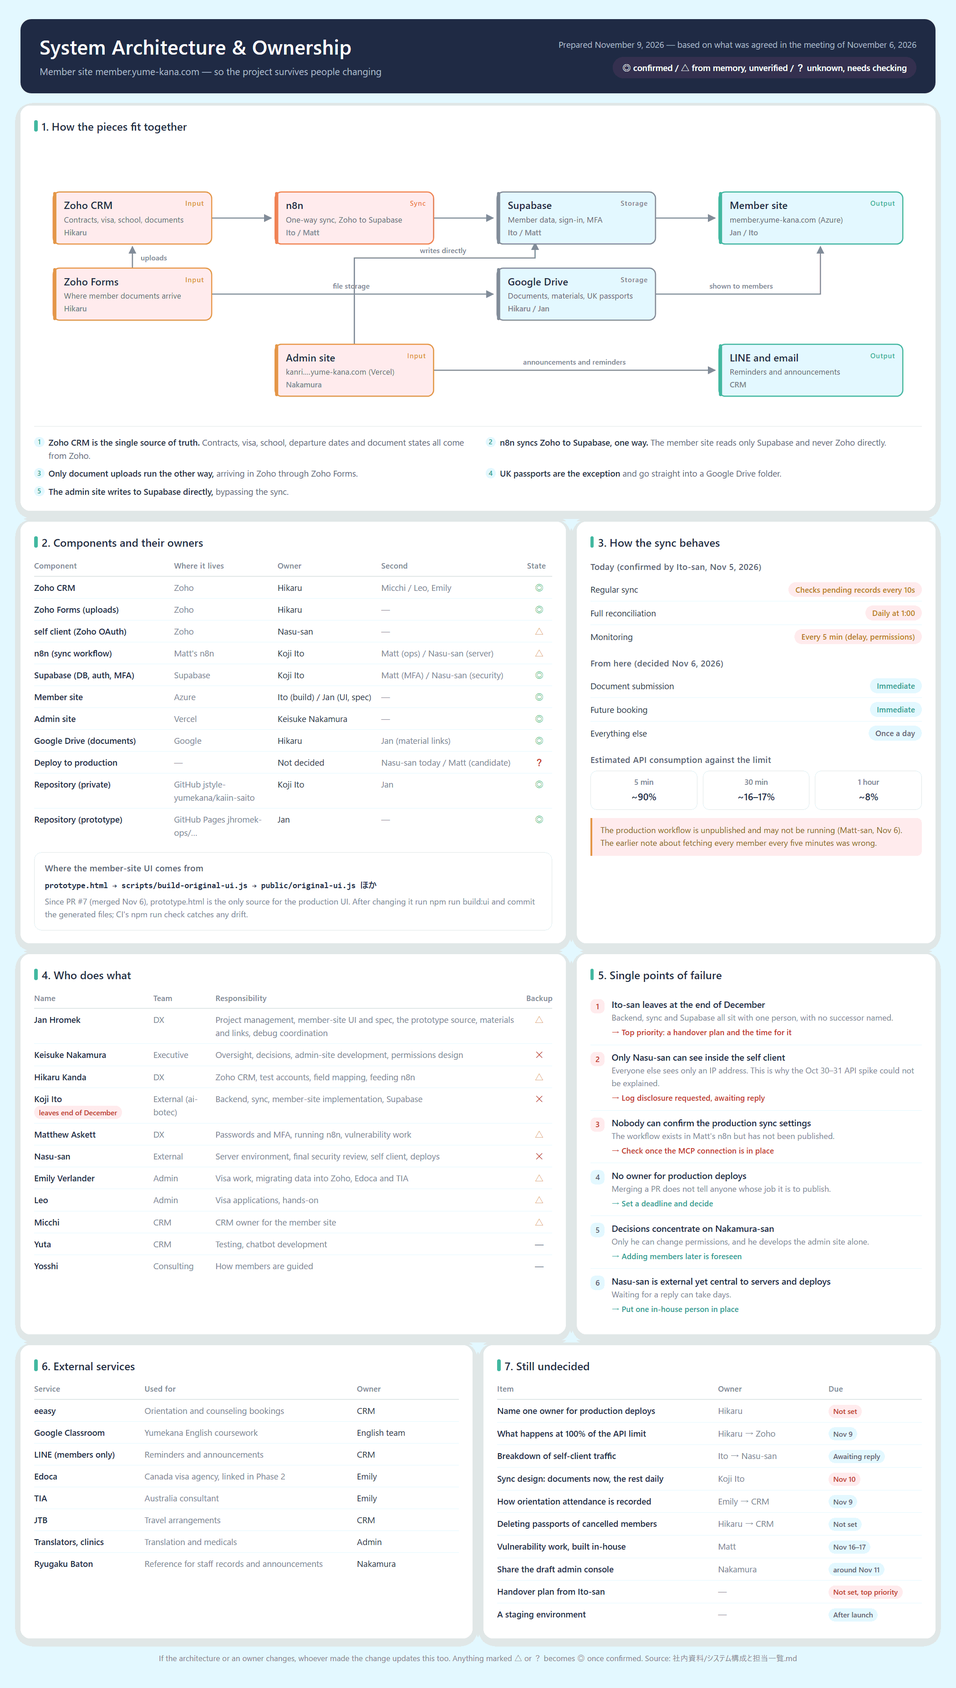
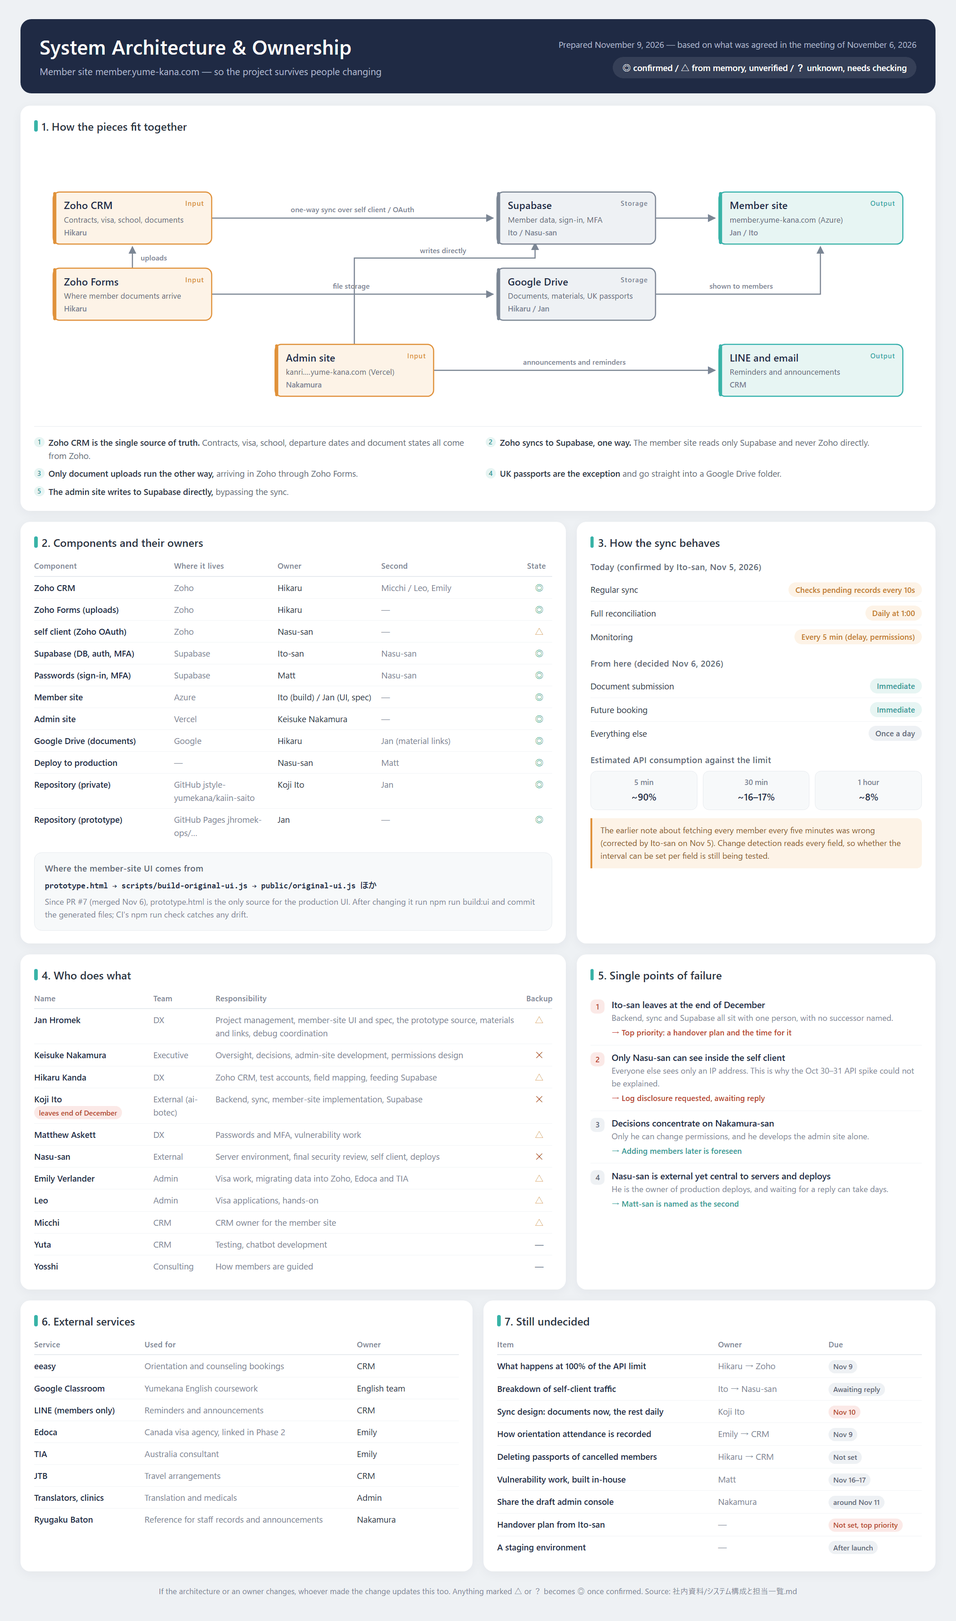
Take n8n out, and settle who owns what
Zoho CRM now reaches Supabase directly over self client / OAuth, so n8n
is gone from the diagram, the component list and everyone's duties. The
sync intervals and the policy decided on November 6 are unchanged; only
the tool that carried them has been dropped, along with the risk and the
caveat that existed because that workflow was unpublished.

Owners, as decided:

  Supabase   Ito-san, with Nasu-san second
  Passwords  Matt-san, with Nasu-san second (a component of its own now)
  Deploy     Nasu-san, with Matt-san second

Naming a deploy owner settles the risk and the open question that both
said nobody had been chosen.

The poster is regenerated. Its colours are quantised with MEDIANCUT now:
MAXCOVERAGE was shifting flat fills, which had tinted the page background.

diff --git a/status.html b/status.html
@@ -819,20 +819,21 @@
         <div class="lk-item"><span class="lk-n" data-ja="管理サイト（kanri.ryugaku.yume-kana.com）" data-en="Admin site (kanri.ryugaku.yume-kana.com)">管理サイト（kanri.ryugaku.yume-kana.com）</span><span class="lk-d" data-ja="Vercelに設置。社員情報・一括配信・配信シナリオ・リンクと資料の管理。担当：中村さん（開発中）" data-en="Hosted on Vercel. Staff records, bulk announcements, scheduled scenarios, and the links and materials shown on the site. Owner: Nakamura-san, in development">Vercelに設置。社員情報・一括配信・配信シナリオ・リンクと資料の管理。担当：中村さん（開発中）</span></div>
       </div>
       <div class="lk-group">
-        <div class="lk-gt"><span class="lk-gname" data-ja="同期" data-en="Sync">同期</span><span class="lk-badge lk-chk" data-ja="稼働状況を確認中" data-en="Status being confirmed">稼働状況を確認中</span></div>
-        <div class="lk-item"><span class="lk-n" data-ja="n8n（Zoho → Supabase）" data-en="n8n (Zoho to Supabase)">n8n（Zoho → Supabase）</span><span class="lk-d" data-ja="構築：伊藤さん／運用：マットさん／サーバー：奈須さん。2026年11月6日時点で本番のワークフローが公開されているかを確認中です" data-en="Built by Ito-san, operated by Matt-san, server by Nasu-san. As of November 6, 2026 we are still confirming whether the production workflow is published">構築：伊藤さん／運用：マットさん／サーバー：奈須さん。2026年11月6日時点で本番のワークフローが公開されているかを確認中です</span></div>
+        <div class="lk-gt"><span class="lk-gname" data-ja="同期" data-en="Sync">同期</span><span class="lk-badge lk-has" data-ja="運用中" data-en="In use">運用中</span></div>
+        <div class="lk-item"><span class="lk-n" data-ja="同期（Zoho → Supabase）" data-en="Sync (Zoho to Supabase)">同期（Zoho → Supabase）</span><span class="lk-d" data-ja="Zoho CRMからSupabaseへ一方向に同期します。会員サイトはSupabaseだけを読み、Zohoを直接見ません。担当：伊藤さん" data-en="Zoho CRM syncs to Supabase, one way. The member site reads only Supabase and never Zoho directly. Owner: Ito-san">Zoho CRMからSupabaseへ一方向に同期します。会員サイトはSupabaseだけを読み、Zohoを直接見ません。担当：伊藤さん</span></div>
         <div class="lk-item"><span class="lk-n" data-ja="self client（Zoho OAuth）" data-en="self client (Zoho OAuth)">self client（Zoho OAuth）</span><span class="lk-d" data-ja="担当：奈須さん。APIリクエストの内訳が奈須さんからしか見えないため、開示を依頼しています" data-en="Owner: Nasu-san. Only he can see what the API requests contain, so we have asked for that to be opened up">担当：奈須さん。APIリクエストの内訳が奈須さんからしか見えないため、開示を依頼しています</span></div>
         <div class="lk-item"><span class="lk-n" data-ja="同期の方針（2026年11月6日の決定）" data-en="Sync policy (decided November 6, 2026)">同期の方針（2026年11月6日の決定）</span><span class="lk-d" data-ja="書類提出まわりは即時反映、それ以外は1日1回。即時反映にする項目はマッピング表から特定します" data-en="Anything to do with document submission updates immediately; everything else once a day. The immediate items are identified from the field mapping sheet">書類提出まわりは即時反映、それ以外は1日1回。即時反映にする項目はマッピング表から特定します</span></div>
       </div>
       <div class="lk-group">
         <div class="lk-gt"><span class="lk-gname" data-ja="保管" data-en="Storage">保管</span><span class="lk-badge lk-has" data-ja="運用中" data-en="In use">運用中</span></div>
-        <div class="lk-item"><span class="lk-n" data-ja="Supabase" data-en="Supabase">Supabase</span><span class="lk-d" data-ja="会員データ・ログイン・多要素認証。会員ID（Zoho ContactID）で会員ごとにデータを分離。担当：伊藤さん／認証：マットさん" data-en="Member data, sign-in and multi-factor authentication. Records are separated per member by the member ID (Zoho ContactID). Owner: Ito-san, authentication by Matt-san">会員データ・ログイン・多要素認証。会員ID（Zoho ContactID）で会員ごとにデータを分離。担当：伊藤さん／認証：マットさん</span></div>
+        <div class="lk-item"><span class="lk-n" data-ja="Supabase" data-en="Supabase">Supabase</span><span class="lk-d" data-ja="会員データ・ログイン・多要素認証。会員ID（Zoho ContactID）で会員ごとにデータを分離。主担当：伊藤さん／副担当：奈須さん" data-en="Member data, sign-in and multi-factor authentication. Records are separated per member by the member ID (Zoho ContactID). Owner: Ito-san, second: Nasu-san">会員データ・ログイン・多要素認証。会員ID（Zoho ContactID）で会員ごとにデータを分離。主担当：伊藤さん／副担当：奈須さん</span></div>
+        <div class="lk-item"><span class="lk-n" data-ja="パスワード（ログイン・多要素認証）" data-en="Passwords (sign-in and MFA)">パスワード（ログイン・多要素認証）</span><span class="lk-d" data-ja="Supabaseの認証まわり。パスワードの扱いと多要素認証の設定。主担当：マットさん／副担当：奈須さん" data-en="Authentication on Supabase: how passwords are handled and how multi-factor authentication is set up. Owner: Matt-san, second: Nasu-san">Supabaseの認証まわり。パスワードの扱いと多要素認証の設定。主担当：マットさん／副担当：奈須さん</span></div>
         <div class="lk-item"><span class="lk-n" data-ja="Google Drive" data-en="Google Drive">Google Drive</span><span class="lk-d" data-ja="書類と資料。イギリスのパスポートはお客様ごとのフォルダで受け取ります。担当：神田光／資料のリンク：ヤン" data-en="Documents and materials. UK passports arrive in a folder of their own per member. Owner: Hikaru-san; material links by Jan">書類と資料。イギリスのパスポートはお客様ごとのフォルダで受け取ります。担当：神田光／資料のリンク：ヤン</span></div>
       </div>
       <div class="lk-group">
-        <div class="lk-gt"><span class="lk-gname" data-ja="出力・ご案内" data-en="Output and communication">出力・ご案内</span><span class="lk-badge lk-new" data-ja="担当を決める必要があります" data-en="An owner still needs naming">担当を決める必要があります</span></div>
+        <div class="lk-gt"><span class="lk-gname" data-ja="出力・ご案内" data-en="Output and communication">出力・ご案内</span><span class="lk-badge lk-has" data-ja="運用中" data-en="In use">運用中</span></div>
         <div class="lk-item"><span class="lk-n" data-ja="会員サイト（member.yume-kana.com）" data-en="Member site (member.yume-kana.com)">会員サイト（member.yume-kana.com）</span><span class="lk-d" data-ja="Azureに設置。画面と仕様：ヤン／実装：伊藤さん。画面は prototype.html を原本として生成します" data-en="Hosted on Azure. Screens and specification by Jan, implementation by Ito-san. The screens are generated from prototype.html as the single source">Azureに設置。画面と仕様：ヤン／実装：伊藤さん。画面は prototype.html を原本として生成します</span></div>
-        <div class="lk-item"><span class="lk-n" data-ja="本番への公開（デプロイ）" data-en="Deploying to production">本番への公開（デプロイ）</span><span class="lk-d" data-ja="担当が未定です。現状は奈須さんが対応しており、DXチームから1名を選ぶ方針です。誰でもいつでも公開できる状態にはしません" data-en="No owner yet. Nasu-san handles it today and the plan is to name one person from the DX team. We will not leave production open for anyone to publish at any time">担当が未定です。現状は奈須さんが対応しており、DXチームから1名を選ぶ方針です。誰でもいつでも公開できる状態にはしません</span></div>
+        <div class="lk-item"><span class="lk-n" data-ja="本番への公開（デプロイ）" data-en="Deploying to production">本番への公開（デプロイ）</span><span class="lk-d" data-ja="主担当：奈須さん／副担当：マットさん。誰でもいつでも公開できる状態にはしません" data-en="Owner: Nasu-san, second: Matt-san. We will not leave production open for anyone to publish at any time">主担当：奈須さん／副担当：マットさん。誰でもいつでも公開できる状態にはしません</span></div>
         <div class="lk-item"><span class="lk-n" data-ja="LINE・メールでのご案内" data-en="LINE and email">LINE・メールでのご案内</span><span class="lk-d" data-ja="提出期限のリマインドと重要なお知らせ。ローンチ後も続けます。担当：CRM" data-en="Deadline reminders and important announcements, continuing after launch. Owner: CRM">提出期限のリマインドと重要なお知らせ。ローンチ後も続けます。担当：CRM</span></div>
       </div>
       <p class="apv-foot" data-ja="構成や担当が変わったら、変えた方がこのページも更新してください。「確認中」と書かれている項目は、裏が取れた時点で書き換えます。" data-en="If the architecture or an owner changes, whoever made the change updates this page too. Anything marked as being confirmed gets rewritten once we have the answer.">構成や担当が変わったら、変えた方がこのページも更新してください。「確認中」と書かれている項目は、裏が取れた時点で書き換えます。</p>

diff --git a/tools/make-architecture-png.py b/tools/make-architecture-png.py
@@ -18,10 +18,8 @@ BOXES = [
     # x, y, w, h, kind, title, sub, owner
     (30, 76, 250, 82, "in", T("Zoho CRM", "Zoho CRM"),
      T("契約・ビザ・学校・書類（唯一の正）", "Contracts, visa, school, documents"), T("神田光", "Hikaru")),
-    (380, 76, 250, 82, "sync", T("n8n", "n8n"),
-     T("Zoho → Supabase 一方向同期", "One-way sync, Zoho to Supabase"), T("伊藤／マット", "Ito / Matt")),
     (730, 76, 250, 82, "store", T("Supabase", "Supabase"),
-     T("会員データ・ログイン・MFA", "Member data, sign-in, MFA"), T("伊藤／マット", "Ito / Matt")),
+     T("会員データ・ログイン・MFA", "Member data, sign-in, MFA"), T("伊藤／奈須さん", "Ito / Nasu-san")),
     (1080, 76, 290, 82, "out", T("会員サイト", "Member site"),
      T("member.yume-kana.com（Azure）", "member.yume-kana.com (Azure)"), T("ヤン／伊藤", "Jan / Ito")),
     (30, 196, 250, 82, "in", T("Zoho Forms", "Zoho Forms"),
@@ -35,8 +33,7 @@ BOXES = [
 ]
 
 ARROWS = [
-    ("M280 117H374", None, None),
-    ("M630 117H724", None, None),
+    ("M280 117H724", T("self client / OAuth で一方向に同期", "one-way sync over self client / OAuth"), (502, 108, "middle")),
     ("M980 117H1074", None, None),
     ("M155 196V162", T("書類提出", "uploads"), (168, 184, "start")),
     ("M280 237H724", T("ファイルの保管", "file storage"), (500, 228, "middle")),
@@ -47,7 +44,6 @@ ARROWS = [
 
 KIND = {
     "in":    ("#FDF3E7", "#E0913A", T("入力", "Input")),
-    "sync":  ("#FDEEE7", "#EF7A48", T("同期", "Sync")),
     "store": ("#EEF1F4", "#7B8694", T("保管", "Storage")),
     "out":   ("#E7F5F3", "#39B3A6", T("出力", "Output")),
 }
@@ -82,8 +78,8 @@ def diagram(L):
 FACTS = [
     T("<b>Zoho CRM が唯一の正。</b>契約・ビザ・学校・渡航日・書類の状態は、すべて Zoho の値を表示しています。",
       "<b>Zoho CRM is the single source of truth.</b> Contracts, visa, school, departure dates and document states all come from Zoho."),
-    T("<b>n8n が Zoho から Supabase へ一方向に同期。</b>会員サイトは Supabase だけを読み、Zoho を直接見ません。",
-      "<b>n8n syncs Zoho to Supabase, one way.</b> The member site reads only Supabase and never Zoho directly."),
+    T("<b>Zoho から Supabase へ一方向に同期します。</b>会員サイトは Supabase だけを読み、Zoho を直接見ません。",
+      "<b>Zoho syncs to Supabase, one way.</b> The member site reads only Supabase and never Zoho directly."),
     T("<b>逆方向はお客様の書類提出のみ。</b>Zoho Forms を経由して Zoho に入ります。",
       "<b>Only document uploads run the other way,</b> arriving in Zoho through Zoho Forms."),
     T("<b>UK のパスポートだけ例外</b>で、Google Drive のフォルダへ直接アップロードしていただきます。",
@@ -96,12 +92,12 @@ COMPONENTS = [
     (T("Zoho CRM", "Zoho CRM"), T("Zoho", "Zoho"), T("神田光", "Hikaru"), T("みっちー／レオ・エミリー", "Micchi / Leo, Emily"), "o"),
     (T("Zoho Forms（書類提出）", "Zoho Forms (uploads)"), T("Zoho", "Zoho"), T("神田光", "Hikaru"), T("—", "—"), "o"),
     (T("self client（Zoho OAuth）", "self client (Zoho OAuth)"), T("Zoho", "Zoho"), T("奈須さん", "Nasu-san"), T("—", "—"), "t"),
-    (T("n8n（同期ワークフロー）", "n8n (sync workflow)"), T("マットさんの n8n", "Matt's n8n"), T("伊藤光司", "Koji Ito"), T("マット（運用）／奈須さん（サーバー）", "Matt (ops) / Nasu-san (server)"), "t"),
-    (T("Supabase（DB・Auth・MFA）", "Supabase (DB, auth, MFA)"), T("Supabase", "Supabase"), T("伊藤光司", "Koji Ito"), T("マット（MFA）／奈須さん（セキュリティ）", "Matt (MFA) / Nasu-san (security)"), "o"),
+    (T("Supabase（DB・Auth・MFA）", "Supabase (DB, auth, MFA)"), T("Supabase", "Supabase"), T("伊藤さん", "Ito-san"), T("奈須さん", "Nasu-san"), "o"),
+    (T("パスワード（ログイン・多要素認証）", "Passwords (sign-in, MFA)"), T("Supabase", "Supabase"), T("マット", "Matt"), T("奈須さん", "Nasu-san"), "o"),
     (T("会員サイト", "Member site"), T("Azure", "Azure"), T("伊藤（実装）／ヤン（UI・仕様）", "Ito (build) / Jan (UI, spec)"), T("—", "—"), "o"),
     (T("管理サイト", "Admin site"), T("Vercel", "Vercel"), T("中村圭介", "Keisuke Nakamura"), T("—", "—"), "o"),
     (T("Google Drive（書類・資料）", "Google Drive (documents)"), T("Google", "Google"), T("神田光", "Hikaru"), T("ヤン（資料のリンク管理）", "Jan (material links)"), "o"),
-    (T("デプロイ（本番公開）", "Deploy to production"), T("—", "—"), T("未定", "Not decided"), T("奈須さん（現状）／マット（候補）", "Nasu-san today / Matt (candidate)"), "q"),
+    (T("デプロイ（本番公開）", "Deploy to production"), T("—", "—"), T("奈須さん", "Nasu-san"), T("マット", "Matt"), "o"),
     (T("リポジトリ（非公開）", "Repository (private)"), T("GitHub jstyle-yumekana/kaiin-saito", "GitHub jstyle-yumekana/kaiin-saito"), T("伊藤光司", "Koji Ito"), T("ヤン", "Jan"), "o"),
     (T("リポジトリ（プロトタイプ）", "Repository (prototype)"), T("GitHub Pages jhromek-ops/…", "GitHub Pages jhromek-ops/…"), T("ヤン", "Jan"), T("—", "—"), "o"),
 ]
@@ -125,12 +121,12 @@ PEOPLE = [
     (T("中村圭介", "Keisuke Nakamura"), T("役員", "Executive"),
      T("統括、意思決定、管理サイトの開発、権限設計", "Oversight, decisions, admin-site development, permissions design"), "x"),
     (T("神田光（ひかる）", "Hikaru Kanda"), T("DX", "DX"),
-     T("Zoho CRM全般、テストアカウント、項目マッピング、n8nへの取り込み",
-       "Zoho CRM, test accounts, field mapping, feeding n8n"), "t"),
+     T("Zoho CRM全般、テストアカウント、項目マッピング、Supabaseへの取り込み",
+       "Zoho CRM, test accounts, field mapping, feeding Supabase"), "t"),
     (T("伊藤光司", "Koji Ito"), T("外部（ai-botec）", "External (ai-botec)"),
      T("バックエンド、同期処理、会員サイトの実装、Supabase", "Backend, sync, member-site implementation, Supabase"), "x12"),
     (T("Matthew Askett（マット）", "Matthew Askett"), T("DX", "DX"),
-     T("パスワード・MFA、n8nの運用、脆弱性対応", "Passwords and MFA, running n8n, vulnerability work"), "t"),
+     T("パスワード・MFA、脆弱性対応", "Passwords and MFA, vulnerability work"), "t"),
     (T("奈須さん", "Nasu-san"), T("外部", "External"),
      T("サーバー環境、セキュリティの最終チェック、self client、デプロイ",
        "Server environment, final security review, self client, deploys"), "x"),
@@ -151,21 +147,14 @@ RISKS = [
      T("他の人からはIPアドレスしか見えません。10/30・31のAPI逼迫の原因が特定できない直接の理由です。",
        "Everyone else sees only an IP address. This is why the Oct 30–31 API spike could not be explained."),
      T("ログ開示を依頼済み（返信待ち）", "Log disclosure requested, awaiting reply"), "hi"),
-    (T("本番の同期設定を誰も確認できていない", "Nobody can confirm the production sync settings"),
-     T("マットさんのn8nにワークフローはあるが未公開のままです。",
-       "The workflow exists in Matt's n8n but has not been published."),
-     T("MCP接続後に現状を確認", "Check once the MCP connection is in place"), "hi"),
-    (T("本番デプロイの担当が未定", "No owner for production deploys"),
-     T("PRをマージしても、本番に反映する人が決まっていません。",
-       "Merging a PR does not tell anyone whose job it is to publish."),
-     T("期限を設けて決める", "Set a deadline and decide"), "mid"),
     (T("中村さんに意思決定が集中", "Decisions concentrate on Nakamura-san"),
      T("権限変更は中村さんのみ。管理サイトも単独開発です。",
        "Only he can change permissions, and he develops the admin site alone."),
      T("後からメンバー追加の想定あり", "Adding members later is foreseen"), "mid"),
     (T("奈須さんが外部で、サーバーとデプロイの要", "Nasu-san is external yet central to servers and deploys"),
-     T("返信待ちが数日単位になることがあります。", "Waiting for a reply can take days."),
-     T("社内に1名できる人を置く", "Put one in-house person in place"), "mid"),
+     T("本番公開の主担当です。返信待ちが数日単位になることがあります。",
+       "He is the owner of production deploys, and waiting for a reply can take days."),
+     T("副担当にマットさんを置いています", "Matt-san is named as the second"), "mid"),
 ]
 
 EXTERNAL = [
@@ -180,7 +169,6 @@ EXTERNAL = [
 ]
 
 OPEN = [
-    (T("本番デプロイの担当者を1名選定", "Name one owner for production deploys"), T("神田光", "Hikaru"), T("未設定", "Not set"), 1),
     (T("API上限100%到達時の挙動", "What happens at 100% of the API limit"), T("神田光 → Zoho", "Hikaru → Zoho"), T("11月9日", "Nov 9"), 0),
     (T("self client 通信内訳の開示", "Breakdown of self-client traffic"), T("伊藤 → 奈須さん", "Ito → Nasu-san"), T("返信待ち", "Awaiting reply"), 0),
     (T("書類は即時・他は1日1回の同期設計", "Sync design: documents now, the rest daily"), T("伊藤光司", "Koji Ito"), T("11月10日", "Nov 10"), 1),
@@ -218,10 +206,11 @@ STR = {
     "now": T("現状（2026年11月5日 伊藤さん確認）", "Today (confirmed by Ito-san, Nov 5, 2026)"),
     "next": T("これから（2026年11月6日の決定）", "From here (decided Nov 6, 2026)"),
     "api": T("APIリクエストの試算（上限に対する消費）", "Estimated API consumption against the limit"),
-    "syncwarn": T("本番のワークフローは公開されておらず、現在動いていない可能性があります（11月6日・マットさん）。"
-                  "「5分ごとに全会員を取得」という以前の共有は誤りです。",
-                  "The production workflow is unpublished and may not be running (Matt-san, Nov 6). "
-                  "The earlier note about fetching every member every five minutes was wrong."),
+    "syncwarn": T("「5分ごとに全会員を取得」という以前の共有は誤りです（11月5日・伊藤さん訂正）。"
+                  "変更検知は全項目を読みに行く方式のため、項目単位で間隔を変えられるかは検証中です。",
+                  "The earlier note about fetching every member every five minutes was wrong "
+                  "(corrected by Ito-san on Nov 5). Change detection reads every field, so whether the "
+                  "interval can be set per field is still being tested."),
     "uisrc": T("会員サイトのUIの出どころ", "Where the member-site UI comes from"),
     "uisrc_d": T("PR #7（11月6日マージ）以降、prototype.html が本番UIの唯一の原本です。"
                  "変更したら npm run build:ui を実行し、生成物も一緒にコミットしてください（CIの npm run check がずれを検出します）。",
@@ -429,8 +418,15 @@ def render(L, out_png):
             last = y
             break
     im = im.crop((0, 0, w, min(hgt, last + 56)))
-    im = im.quantize(colors=256, method=Image.Quantize.MAXCOVERAGE, dither=Image.Dither.NONE)
-    im.save(out_png, optimize=True)
+    # 256色に落としてファイルを小さくします。MEDIANCUT は背景などのベタ塗りを
+    # そのままの色で残します（MAXCOVERAGE は色がずれるので使わないでください）。
+    q = im.quantize(colors=256, method=Image.Quantize.MEDIANCUT, dither=Image.Dither.NONE)
+    check = q.convert("RGB")
+    probes = [(20, 300), (im.width - 20, 300), (im.width // 2, im.height - 30)]
+    worst = max(max(abs(a - b) for a, b in zip(im.getpixel(xy), check.getpixel(xy))) for xy in probes)
+    if worst > 2:
+        sys.exit("色がずれました（最大 %d）。減色をやめて保存してください。" % worst)
+    q.save(out_png, optimize=True)
     print(out_png, im.size, round(os.path.getsize(out_png) / 1024), "KB")
 
 
